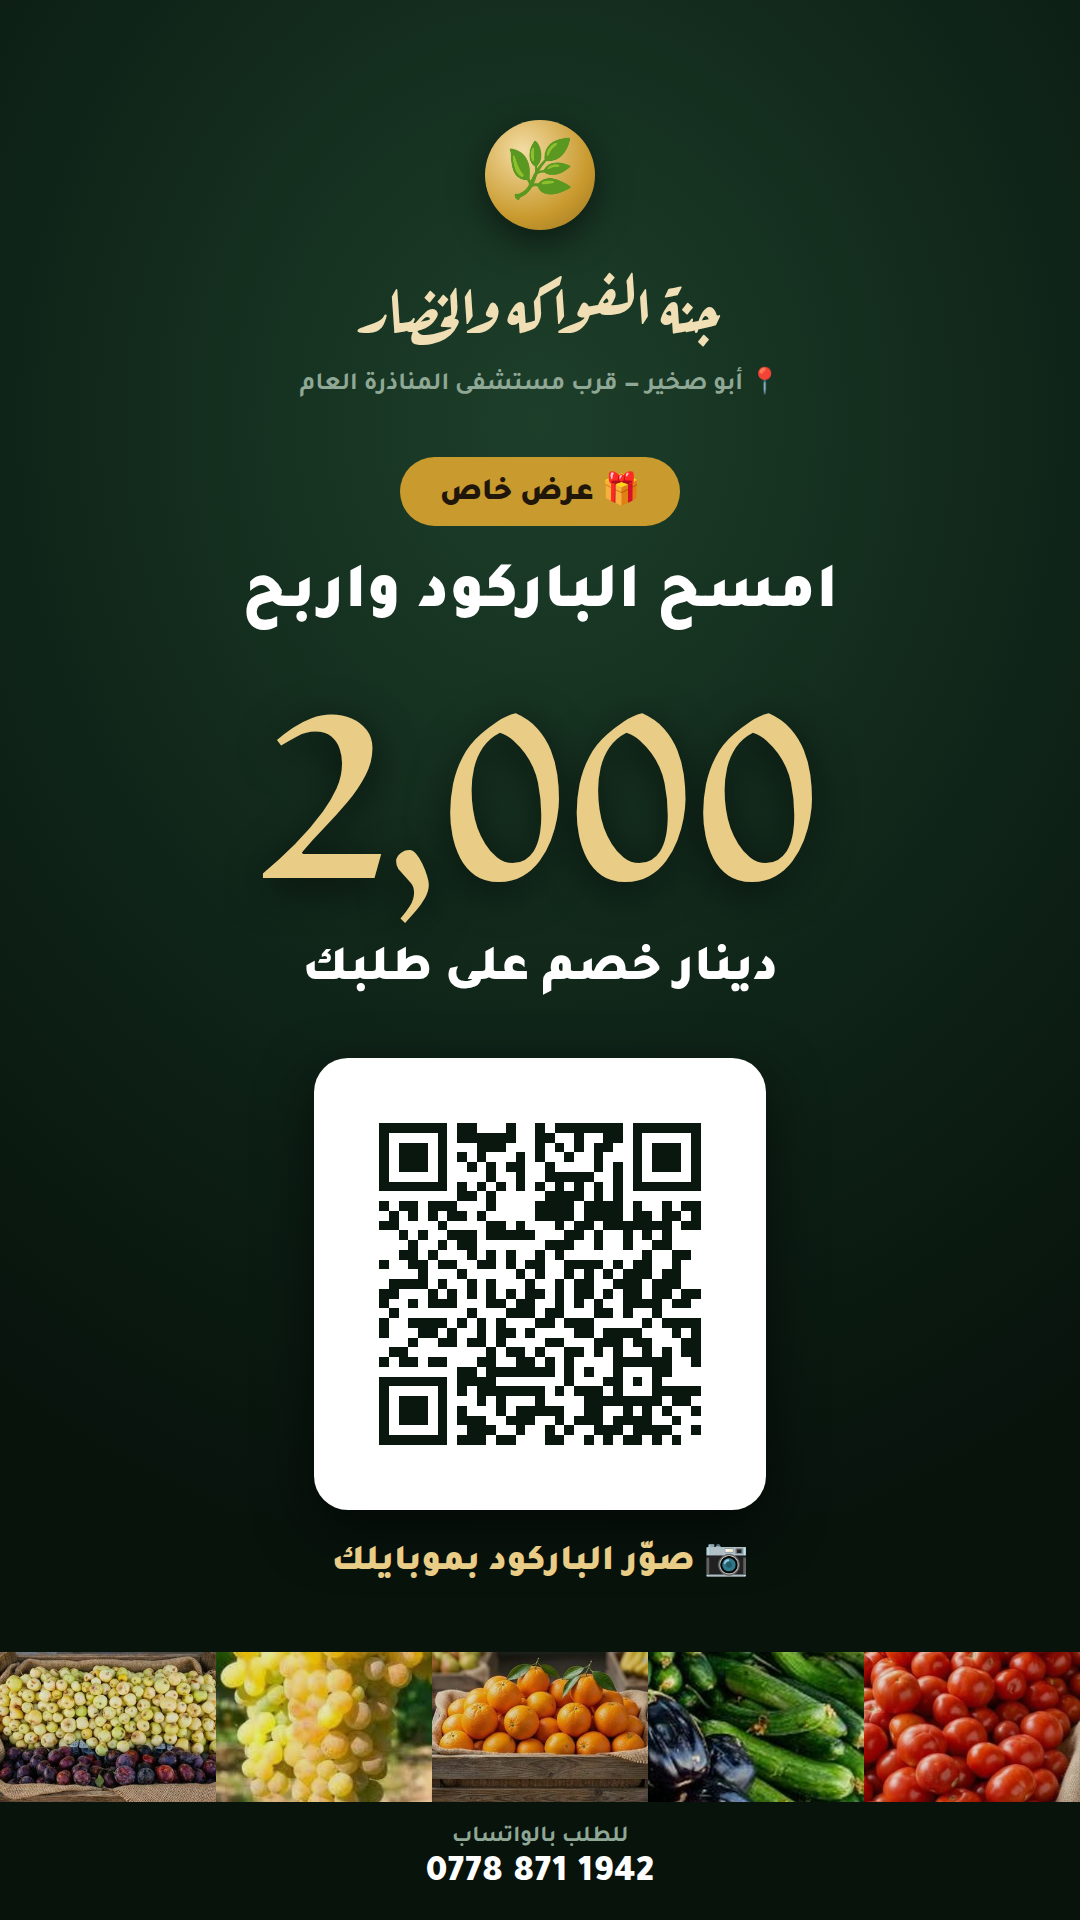
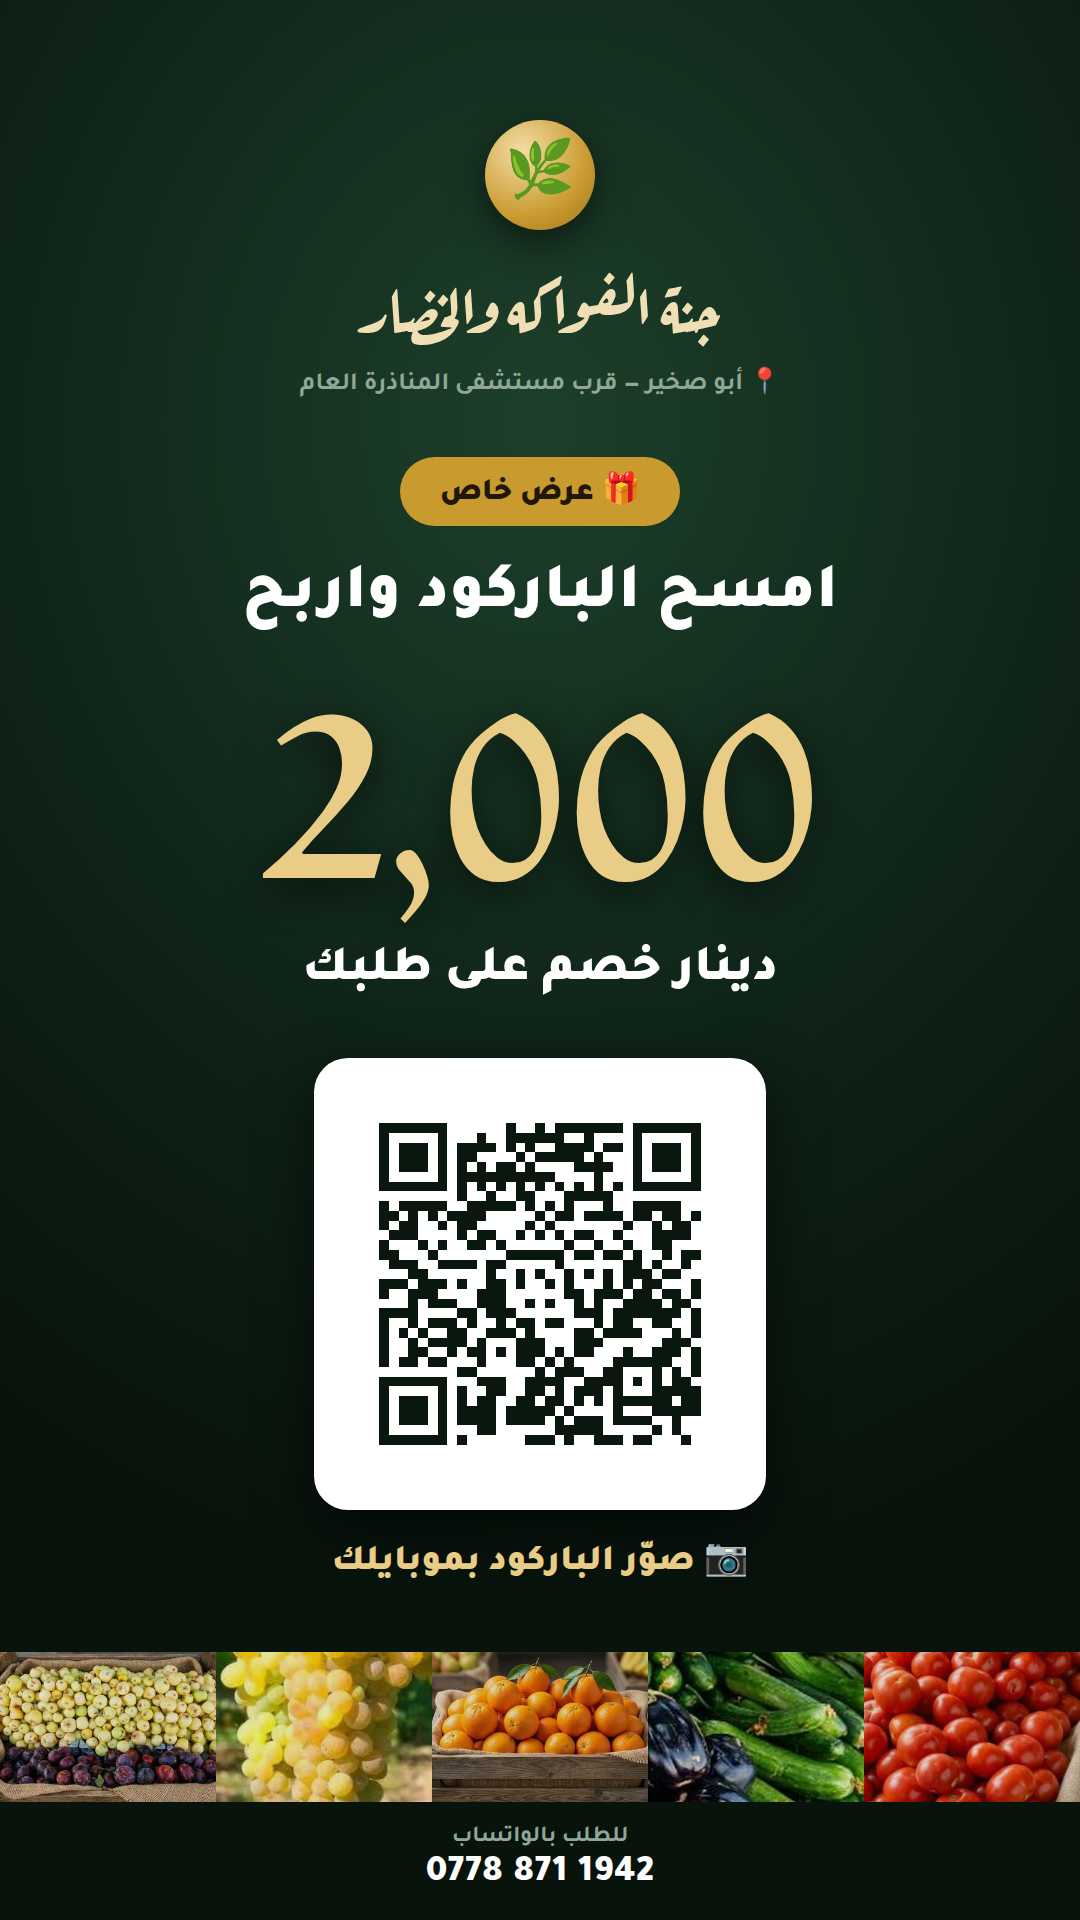
رمز الباركود صار يتبدّل — لإلغاء الروابط اللي انتشرت
سبب مشكلة «الخصم يطلع للكل»: الخصم يمشي مع الرابط. أي واحد يفتح
رابط بيه ?promo=الرمز ياخذ الخصم حتى لو ما صوّر الباركود، ولمن
يفتحه مرة ينحفظ بجهازه ٣٠ يوم. الكود كان سليم بكل نسخة (فحصنا
التاريخ كله: الطلب ما ينحسب إلا إذا وصل الرمز)، بس ماكو طريقة
تلغي رمز انتشر.

الحين الرمز يجي من الإعدادات مو ثابت بالكود:
• تبديله يلغي فوراً كل الروابط المنتشرة وكل جهاز ماسك القديم
• قفل «مرة وحدة» صار على الرقم بس، حتى ما يرجع المستفيد القديم
  ياخذ الخصم مرة ثانية بالرمز الجديد
• زر «رمز جديد» باللوحة يولّد رمز عشوائي، مع تنبيه إنه لازم
  يطبع باركود جديد

بدّلنا الرمز الحالي وأعدنا توليد كل البوسترات عليه.

Claude-Session: https://claude.ai/code/session_01XYXCeXkoAFiM9NR5Qz9NUo

Changed region(s): [[0.3361, 0.5625, 0.6722, 0.75]]

diff --git a/index.html b/index.html
@@ -1796,13 +1796,14 @@
     requireNotifications: false,// true = ما يدخل التطبيق إلا بعد ما يفعّل الإشعارات
     requireInstall: false,      // true = شاشة التثبيت تطلع للكل، مو للجاي من الباركود بس
     promoText: "🚴 التوصيل الأول مجاني لكل زبون جديد!",
-    announcement: ""            // إعلان يظهر بأعلى الصفحة (فاضي = مخفي)
+    announcement: "",           // إعلان يظهر بأعلى الصفحة (فاضي = مخفي)
+    scanPromoCode: "SCAN1000"   // رمز عرض الباركود — يتبدّل من الإعدادات لإلغاء الروابط المنتشرة
   };
 
   // ---------- تحميل الإعدادات من settings.json ----------
   const SETTINGS_NUMBERS = ["deliveryFee","freeDeliveryOver","minOrderTotal","openHour","closeHour","quarterKgOverPrice","pointsPerOrder","roundTo"];
   const SETTINGS_BOOLS   = ["firstOrderFreeDelivery","manualClosed","requireNotifications","requireInstall"];
-  const SETTINGS_TEXTS   = ["closedMessage","promoText","announcement"];
+  const SETTINGS_TEXTS   = ["closedMessage","promoText","announcement","scanPromoCode"];
 
   const SETTINGS_CACHE_KEY = "janat-settings-cache";
 
@@ -1839,6 +1840,9 @@
       applySettingsToUI();
       updateStoreStatus();
       updateCartUI();
+      // وصلنا رمز العرض الحالي من السيرفر — نعيد المحاولة، لأن النداء
+      // الأول اشتغل على نسخة مخزّنة ممكن تكون على رمز قديم
+      if(typeof capturePromo === "function") capturePromo();
       // الإعدادات هي اللي تقرر إذا البوابة تشتغل — فننادي بعد ما توصل
       if(typeof maybeShowNotifGate === "function") maybeShowNotifGate();
     }catch(e){
@@ -1944,6 +1948,13 @@
    * من أول لحظة: إما "ربحت" أو "استفدت من قبل". أهون من إنه يفرح
    * ويوصل للسلة ويتفاجأ إن ماكو خصم.
    */
+  /* تنّادى مرتين: وحدة بالإقلاع من الإعدادات المخزّنة، ووحدة بعد ما توصل
+   * settings.json من الشبكة. السبب: لو صاحب المحل بدّل رمز العرض، النسخة
+   * المخزّنة بالجهاز تكون لسه على الرمز القديم — فالزبون اللي يصوّر
+   * الباركود الجديد ينرفض بالنداء الأول. النداء الثاني (بعد وصول
+   * الإعدادات) يمسك الرمز الجديد صح.
+   * البشارة ما تنعرض إلا مرة وحدة مهما انّادت الدالة. */
+  let promoBoxShown = false;
   function capturePromo(){
     let asked = "";
     try{ asked = (new URLSearchParams(location.search).get("promo") || "").trim().toUpperCase(); }
@@ -1951,17 +1962,17 @@
 
     const held = promoHeld();
     if(!asked && !held) return;                     // ماكو شي نسويه
-    if(asked && asked !== PROMO_CODE) return;       // رمز مو مالنا
+    if(asked && asked !== promoCode()) return;      // رمز مو مالنا (أو رمز قديم انلغى)
 
     if(asked && !held){
-      try{ localStorage.setItem(PROMO_KEY, JSON.stringify({ code: PROMO_CODE, at: Date.now() })); }
+      try{ localStorage.setItem(PROMO_KEY, JSON.stringify({ code: promoCode(), at: Date.now() })); }
       catch(e){}
     }
 
     // نسأل السيرفر: العرض شغّال؟ وهذا الرقم استفاد؟
     let phone = "";
     try{ phone = localStorage.getItem("janat-my-phone") || ""; }catch(e){}
-    const url = GOOGLE_SCRIPT_URL + "?promoCheck=" + PROMO_CODE +
+    const url = GOOGLE_SCRIPT_URL + "?promoCheck=" + encodeURIComponent(promoCode()) +
                 (phone ? "&phone=" + encodeURIComponent(phone) : "");
     fetch(url, { cache: "no-store" })
       .then(r=> r.json())
@@ -1970,12 +1981,12 @@
         // نعيد تطبيق الإعدادات حتى الشريط الأحمر يختفي لو صار إله خصم
         if(typeof applySettingsToUI === "function") applySettingsToUI();
         if(typeof updateCartUI === "function") updateCartUI();
-        if(asked) showPromoBox(d);
+        if(asked && !promoBoxShown){ promoBoxShown = true; showPromoBox(d); }
       })
       .catch(()=>{
         // ما وصل رد — ما نفرّحه بشي ما نعرف إذا إله. نخليه يشوف عند السلة
         promoState = null;
-        if(asked) showPromoBox(null);
+        if(asked && !promoBoxShown){ promoBoxShown = true; showPromoBox(null); }
       });
   }
 
@@ -2650,10 +2661,25 @@
    * لو خلّينا الجهاز يقرر، مسح بيانات المتصفح أو نافذة خفية يرجّع
    * الخصم من جديد كل مرة.
    */
-  const PROMO_CODE = "SCAN1000";           // ⚠ نفسه بـapps-script.gs وبالباركود
+  /* ⚠ الرمز صار يتبدّل من الإعدادات، مو ثابت بالكود.
+   *
+   * ليش؟ لأن الرمز يمشي مع الرابط. أي واحد يفتح رابط بيه ?promo=<الرمز>
+   * ياخذ الخصم حتى لو ما شاف الباركود بحياته — ولمن ينفتح مرة، ينحفظ
+   * بجهازه ٣٠ يوم. فلو الرابط انتشر بالواتساب أو الفيسبوك، ما ينفع
+   * ترقّعها: لازم تلغي الرمز نفسه.
+   *
+   * تبديل الرمز من ⚙ إعدادات يلغي فوراً:
+   *   • كل الروابط اللي انتشرت
+   *   • كل الأجهزة اللي ماسكة الرمز القديم (promoHeld تقارن بالرمز الحالي)
+   * وبعدها تطبع باركود جديد بالرمز الجديد. */
   const PROMO_KEY  = "janat-promo";        // { code, at }
   const PROMO_USED_KEY = "janat-promo-used";
   let promoState = null;                   // { on, amount, minOrder, used }
+
+  // الرمز الشغّال هسه — من الإعدادات
+  function promoCode(){
+    return String((STORE && STORE.scanPromoCode) || "").trim().toUpperCase();
+  }
 
   /* هل هذا الزبون ماسك خصم باركود صالح؟ إذا نعم، التوصيل المجاني لأول
    * طلب ما إله — فنخفي كل وعد بيه من الواجهة بدل ما يشوفه ويتفاجأ */
@@ -2669,7 +2695,9 @@
       const raw = localStorage.getItem(PROMO_KEY);
       if(!raw) return null;
       const o = JSON.parse(raw);
-      if(!o || o.code !== PROMO_CODE) return null;
+      // الرمز المحفوظ لازم يطابق الرمز الشغّال هسه. لو صاحب المحل بدّل
+      // الرمز، كل جهاز ماسك القديم يخسره فوراً — وهذا هو المقصود.
+      if(!o || String(o.code||"").toUpperCase() !== promoCode()) return null;
       const age = Date.now() - (Number(o.at) || 0);
       if(age > PROMO_TTL_DAYS * 86400000){
         try{ localStorage.removeItem(PROMO_KEY); }catch(e){}
@@ -3204,7 +3232,7 @@
             firstOrder: isFirstOrder,
             referralPhone: referredByPhone,
             // مجرد طلب — السيرفر هو اللي يقرر إذا يستاهل وبكم
-            promo: promoHeld() ? PROMO_CODE : ""
+            promo: promoHeld() ? promoCode() : ""
         }));
         try{
           const data = await res.json();

diff --git a/admin-settings.js b/admin-settings.js
@@ -31,6 +31,7 @@
     scanPromoAmount: 2000,
     scanPromoMin: 10000,
     scanPromoMax: 0,
+    scanPromoCode: "SCAN1000",
     scanPromoEnds: ""
   };
 
@@ -161,6 +162,30 @@
           <input type="date" id="setScanPromoEnds">
           <div class="sub">بعد هذا اليوم يوقف لحاله. اتركه فاضي = بلا نهاية.</div>
         </div>
+        <div class="set-field">
+          <label>🔑 رمز الباركود الحالي</label>
+          <div style="display:flex; gap:8px; align-items:center;">
+            <input type="text" id="setScanPromoCode" style="flex:1; text-transform:uppercase;">
+            <button type="button" id="rotatePromoCode"
+              style="white-space:nowrap; padding:10px 12px; border-radius:10px; border:0;
+                     background:#8E1B2E; color:#fff; font-weight:700; cursor:pointer;">
+              🔄 رمز جديد
+            </button>
+          </div>
+          <div class="sub">
+            🚨 <b>هذا حلّ مشكلة «الخصم يطلع للكل».</b> الخصم يمشي مع الرابط:
+            أي واحد يفتح رابط بيه <code>?promo=الرمز</code> ياخذ الخصم حتى لو ما
+            صوّر الباركود بحياته — ولمن يفتحه مرة، ينحفظ بجهازه ٣٠ يوم.
+            فإذا انتشر رابطك بالواتساب أو الفيسبوك، الحل الوحيد إنك
+            <b>تبدّل الرمز</b>.
+            <br>لمن تبدّله وتحفظ، فوراً:
+            <br>• كل الروابط القديمة تصير ما تنفع
+            <br>• كل جهاز ماسك الرمز القديم يخسره
+            <br>• الزباين اللي استفادوا من قبل <b>ما يرجعون ياخذون</b> (القفل على الرقم مو على الرمز)
+            <br>⚠ وبعدها <b>لازم تطبع باركود جديد</b> — القديم يوّدي لرمز ملغى.
+          </div>
+          <div class="sub" id="promoCodeChanged" style="display:none;"></div>
+        </div>
       </div>
 
       <div class="set-card">
@@ -278,6 +303,17 @@
       });
     });
 
+    // زر «رمز جديد» — يولّد رمز عشوائي بلا حروف تلتبس (O/0 و I/1)
+    document.getElementById("rotatePromoCode").addEventListener("click", () => {
+      const al = "ABCDEFGHJKLMNPQRSTUVWXYZ23456789";   // بلا O و I
+      let out = "JN";
+      const buf = new Uint32Array(6);
+      (crypto || window.crypto).getRandomValues(buf);
+      for (let i = 0; i < 6; i++) out += al[buf[i] % al.length];
+      document.getElementById("setScanPromoCode").value = out;
+      readForm(); updatePreview();
+    });
+
     document.getElementById("view-settings").addEventListener("input", () => { readForm(); updatePreview(); });
     document.getElementById("view-settings").addEventListener("change", () => { readForm(); updatePreview(); });
     document.getElementById("setSaveBtn").addEventListener("click", save);
@@ -304,7 +340,10 @@
     document.getElementById("setScanPromoMin").value = settings.scanPromoMin ?? 10000;
     document.getElementById("setScanPromoMax").value = settings.scanPromoMax ?? 0;
     document.getElementById("setScanPromoEnds").value = settings.scanPromoEnds || "";
+    document.getElementById("setScanPromoCode").value = settings.scanPromoCode || "SCAN1000";
+    originalPromoCode = String(settings.scanPromoCode || "SCAN1000").toUpperCase();
     warnLowPromoCap();
+    notePromoCodeChange();
 
     document.querySelectorAll(".set-presets button").forEach(b => {
       b.classList.toggle("on", Number(b.dataset.fee) === Number(settings.deliveryFee));
@@ -319,6 +358,33 @@
   /* سقف واطي جداً معناه العرض يموت من أول زبون. هذا الغلط سهل يصير
    * لأن «سقف عدد المستفيدين» ممكن تنقرأ «كل زبون مرة وحدة» — فنكتبها
    * صريحة بالشاشة بدل ما ينتظر أيام ويكتشف إن العرض ما اشتغل لأحد. */
+  /* رمز العرض: نتذكر شنو كان لمن انفتحت الشاشة، حتى نحذّره إنه بدّله
+   * ولازم يطبع باركود جديد — أسهل غلط يصير: يبدّل الرمز وينسى الباركود. */
+  let originalPromoCode = "";
+
+  function notePromoCodeChange() {
+    const el = document.getElementById("promoCodeChanged");
+    if (!el) return;
+    const now = String(document.getElementById("setScanPromoCode").value || "")
+                  .trim().toUpperCase().replace(/\s+/g, "");
+    if (!now) {
+      el.style.display = "";
+      el.innerHTML = "🚨 <b>الرمز فاضي</b> — بلا رمز ماكو عرض باركود أصلاً.";
+      return;
+    }
+    if (originalPromoCode && now !== originalPromoCode) {
+      el.style.display = "";
+      el.innerHTML = "🔄 <b>بدّلت الرمز</b> من <code>" + originalPromoCode +
+        "</code> إلى <code>" + now + "</code>.<br>" +
+        "لمن تحفظ: كل الروابط القديمة تنلغي، وكل جهاز ماسك القديم يخسره. " +
+        "<b>ولازم تطبع باركود جديد</b> يوّدي لـ<br><code>" +
+        "https://a0113724-del.github.io/janat-store/?promo=" + now + "</code>";
+    } else {
+      el.style.display = "none";
+      el.innerHTML = "";
+    }
+  }
+
   function warnLowPromoCap() {
     const el = document.getElementById("scanPromoMaxWarn");
     if (!el) return;
@@ -356,7 +422,12 @@
     settings.scanPromoMin = num("setScanPromoMin");
     settings.scanPromoMax = num("setScanPromoMax");
     settings.scanPromoEnds = document.getElementById("setScanPromoEnds").value.trim();
+    // الرمز دائماً حروف كبيرة وبلا فراغات — لأن المقارنة بالسيرفر وبالتطبيق
+    // تصير بحروف كبيرة، وأي فراغ زايد يكسر الباركود بصمت
+    settings.scanPromoCode =
+      document.getElementById("setScanPromoCode").value.trim().toUpperCase().replace(/\s+/g, "");
     warnLowPromoCap();
+    notePromoCodeChange();
     document.querySelectorAll(".set-presets button").forEach(b => {
       b.classList.toggle("on", Number(b.dataset.fee) === Number(settings.deliveryFee));
     });
